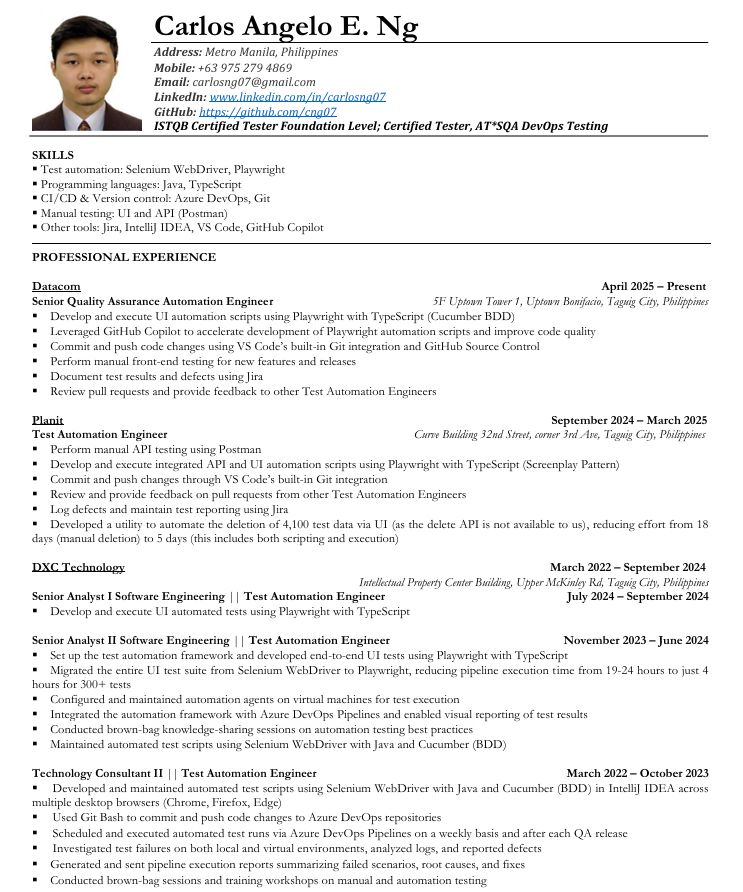
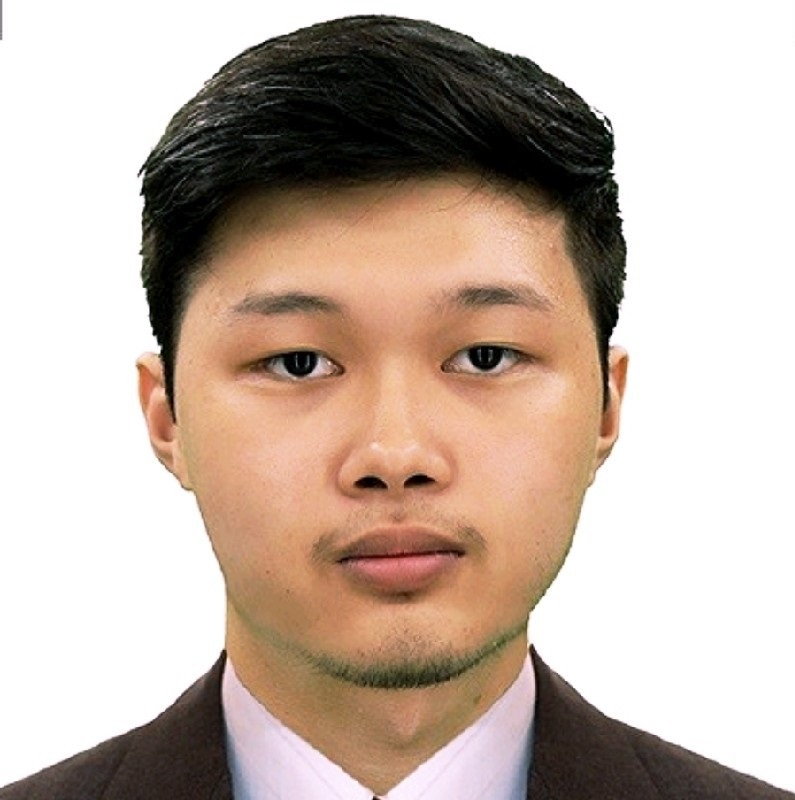
Update profile picture and refine header name

diff --git a/src/App.jsx b/src/App.jsx
@@ -32,7 +32,7 @@ const App = () => {
                 zIndex: 100, width: '90%', maxWidth: '800px', padding: '0.75rem 2rem',
                 display: 'flex', justifyContent: 'space-between', alignItems: 'center'
             }}>
-                <span style={{ fontWeight: 700, fontSize: '1.25rem', color: 'var(--primary)' }}>C.NG</span>
+                <span style={{ fontWeight: 700, fontSize: '1.25rem', color: 'var(--primary)' }}>Carlos Angelo E. Ng</span>
                 <div style={{ display: 'flex', gap: '1.5rem', fontSize: '0.9rem', fontWeight: 500 }}>
                     <a href="#experience">Experience</a>
                     <a href="#skills">Skills</a>
